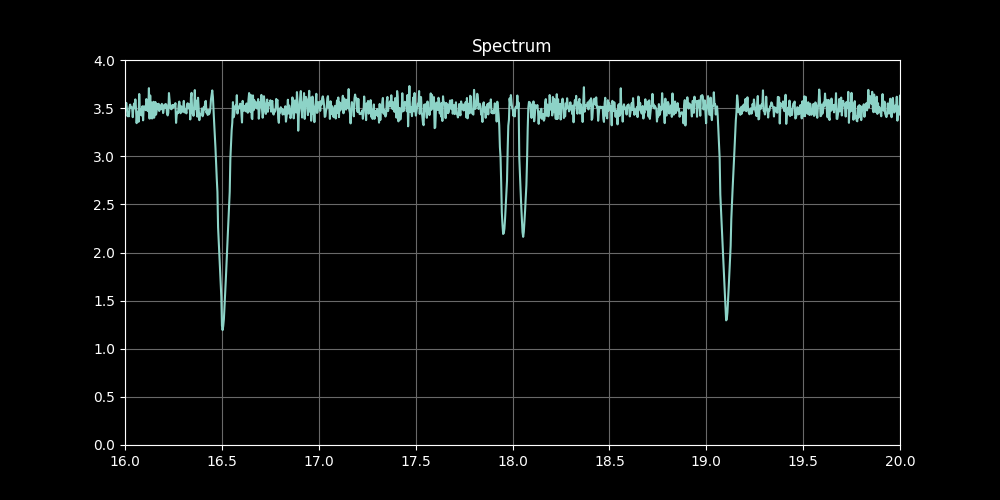
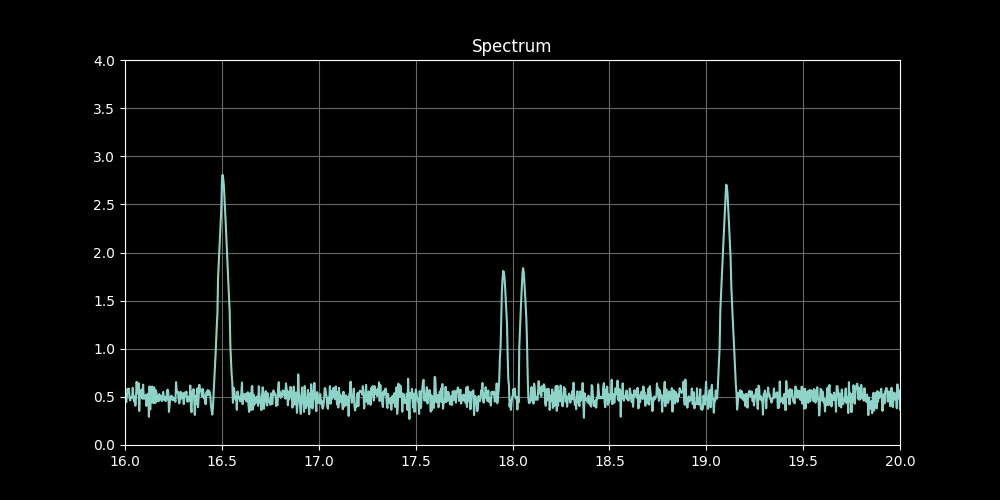
reshape nmr spectrum

Changed region(s): [[0.124, 0.18, 0.899, 0.84], [0.217, 0.3, 0.248, 0.69]]

diff --git a/data_processor.py b/data_processor.py
@@ -4,9 +4,6 @@ from matplotlib.gridspec import GridSpec
 import os
 
 
-# TODO load all data 
-# TODO Create single nmr resonance data
-# TODO reshape NMR SPectrum
 def process_data(path):
 
     # Initialize empty NMR Spectrum
@@ -20,9 +17,7 @@ def process_data(path):
         break
 
     # Iterate trough files
-    for i in range(len(files)):
-
-        file = files[i]
+    for file in files:
 
         # Load data
         data_load = np.loadtxt(path + file)
@@ -40,7 +35,10 @@ def process_data(path):
             nmr_spectrum = iteration_combine(nmr_spectrum, nmr_iteration, lf_iteration, hf_setting)
 
             # Plot the spectrum
-            plot_spectrum(nmr_spectrum, i)
+            # plot_spectrum(nmr_spectrum)
+
+    nmr_spectrum[1,:] = nmr_spectrum[1,:]*(-1) + 4
+    plot_spectrum(nmr_spectrum)
 
     return nmr_spectrum
 
@@ -265,7 +263,8 @@ def plot_merge_iteration(NMR_signal, NMR_slices, NMR_merged, LF_signal, LF_slice
     plt.close()
 
 
-def plot_spectrum(Spectrum, i):
+def plot_spectrum(Spectrum):
+
     plt.style.use('dark_background')
     fig = plt.figure(figsize=(10, 5))
     plt.plot(Spectrum[0,:], Spectrum[1,:])
@@ -273,7 +272,7 @@ def plot_spectrum(Spectrum, i):
     plt.title("Spectrum")
     plt.ylim([0,4])
     plt.xlim([16,20])
-    plt.savefig(f"figures/spectrum_build/spectrum_{i}.png")
+    plt.savefig(f"figures/spectrum.png")
     plt.close()
 
 
